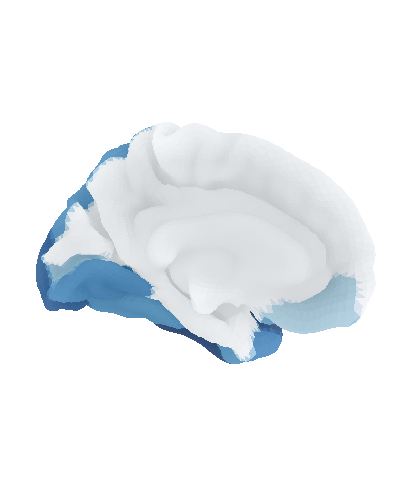
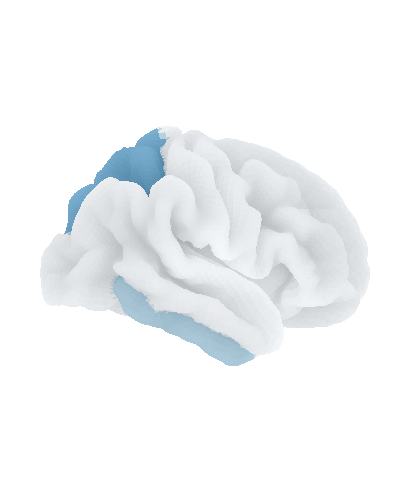
f

diff --git a/ENIGMA_Vis.py b/ENIGMA_Vis.py
@@ -20,11 +20,9 @@ fsaverage = datasets.fetch_surf_fsaverage('fsaverage5')
 
 # ── Render 4 views to temp PNGs via nilearn ──────────────────────────────────
 def render_views(lh, rh, cmap, vmin, vmax, prefix):
-    """Save lat-L / med-L / med-R / lat-R PNGs; return their paths."""
+    """Save lateral-L and lateral-R PNGs; return their paths."""
     config = [
         ('pial_left',  'sulc_left',  lh, 'left',  'lateral'),
-        ('pial_left',  'sulc_left',  lh, 'left',  'medial'),
-        ('pial_right', 'sulc_right', rh, 'right', 'medial'),
         ('pial_right', 'sulc_right', rh, 'right', 'lateral'),
     ]
     paths = []
@@ -106,60 +104,93 @@ row_configs = [
      'Left hippocampus (Lhippo)', 'subcortical'),
 ]
 
-fig = plt.figure(figsize=(20, 18), facecolor='white')
+fig = plt.figure(figsize=(22, 12), facecolor='white')
 
-# 4 brain rows + 1 col for colorbar; extra vertical space between the two seed pairs
-gs = GridSpec(4, 5, figure=fig,
-              width_ratios=[4, 4, 4, 4, 0.35],
-              height_ratios=[1, 1, 1, 1],
-              hspace=0.22, wspace=0.04,
-              left=0.01, right=0.98, top=0.96, bottom=0.02)
+# 2 rows (cortical / subcortical seed) × (FC left | FC right | SC left | SC right | colorbar pair)
+# Laid out as: [FC-LH | FC-RH | gap | SC-LH | SC-RH | cb-FC | cb-SC]
+gs = GridSpec(2, 7, figure=fig,
+              width_ratios=[5, 5, 0.3, 5, 5, 0.35, 0.35],
+              height_ratios=[1, 1],
+              hspace=0.30, wspace=0.05,
+              left=0.02, right=0.98, top=0.93, bottom=0.04)
 
-for row, paths, cmap, vmin, vmax, title, seed_name, seed_type in row_configs:
-    imgs = [mpimg.imread(p) for p in paths]
+# Row 0 = cortical seed (L_middletemporal), Row 1 = subcortical seed (Lhippo)
+# Within each row: FC-LH | FC-RH | [gap] | SC-LH | SC-RH | cb-FC | cb-SC
+seed_rows = [
+    (0, paths_fc1, paths_sc1, 0.2, 0.7, 2, 10,
+     'L_middletemporal', 'cortical',
+     'Functional Cortico-Cortical Connectivity',
+     'Structural Cortico-Cortical Connectivity'),
+    (1, paths_fc2, paths_sc2, 0.1, 0.3, 1, 10,
+     'Left Hippocampus (Lhippo)', 'subcortical',
+     'Functional Subcortico-Cortical Connectivity',
+     'Structural Subcortico-Cortical Connectivity'),
+]
 
-    for col, img in enumerate(imgs):
+for row, p_fc, p_sc, fc_min, fc_max, sc_min, sc_max, seed_name, seed_type, fc_title, sc_title in seed_rows:
+    imgs_fc = [mpimg.imread(p) for p in p_fc]   # [LH, RH]
+    imgs_sc = [mpimg.imread(p) for p in p_sc]   # [LH, RH]
+
+    # columns: 0=FC-LH, 1=FC-RH, 2=gap, 3=SC-LH, 4=SC-RH, 5=cb-FC, 6=cb-SC
+    panels = [
+        (0, imgs_fc[0], 'Left Hemisphere',  fc_title, True),
+        (1, imgs_fc[1], 'Right Hemisphere', '',        False),
+        (3, imgs_sc[0], 'Left Hemisphere',  sc_title,  True),
+        (4, imgs_sc[1], 'Right Hemisphere', '',        False),
+    ]
+
+    for col, img, hemi_label, subtitle, show_seed in panels:
         ax = fig.add_subplot(gs[row, col])
         ax.imshow(img)
         ax.axis('off')
 
-        # Row title + seed label (left of the lateral-L view)
-        if col == 0:
+        ax.text(0.5, -0.03, hemi_label, transform=ax.transAxes,
+                ha='center', va='top', fontsize=9, color='#555', style='italic')
+
+        if subtitle:
             ax.set_title(
-                f'{title}\n'
-                f'$\\it{{Seed:}}$ {seed_name}',
-                fontsize=11, fontweight='bold',
-                loc='left', pad=5, color='#111',
+                f'{subtitle}\n' + r'$\it{Seed}$' + f': {seed_name}',
+                fontsize=10, fontweight='bold', loc='left', pad=5, color='#111',
             )
 
-        # "seed" circle + arrow on the left-lateral view
-        if col == 0:
+        if show_seed:
             h, w = img.shape[:2]
-            # cortical seed: mid-temporal region (~30% from left, 58% from top)
-            # subcortical seed: hippocampus sits slightly lower / more medial
-            if seed_type == 'cortical':
-                sx, sy = int(w * 0.30), int(h * 0.58)
-            else:
-                sx, sy = int(w * 0.38), int(h * 0.63)
-            ax.plot(sx, sy, 'o', mfc='none', mec='black', ms=7, mew=1.5, zorder=5)
+            sx = int(w * 0.30) if seed_type == 'cortical' else int(w * 0.38)
+            sy = int(h * 0.58) if seed_type == 'cortical' else int(h * 0.63)
+            ax.plot(sx, sy, 'o', mfc='none', mec='black', ms=8, mew=1.5, zorder=5)
             ax.annotate('seed', xy=(sx, sy),
-                        xytext=(sx - int(w * 0.12), sy + int(h * 0.14)),
+                        xytext=(sx - int(w * 0.13), sy + int(h * 0.15)),
                         fontsize=9, color='black',
                         arrowprops=dict(arrowstyle='-', color='black', lw=1.0))
 
-    # Colorbar
-    ax_cb = fig.add_subplot(gs[row, 4])
-    sm = mplcm.ScalarMappable(cmap=cmap, norm=Normalize(vmin=vmin, vmax=vmax))
-    sm.set_array([])
-    cb = plt.colorbar(sm, cax=ax_cb)
-    cb.ax.tick_params(labelsize=9)
-    cb.set_ticks([vmin, vmax])
+    # FC colorbar
+    ax_cb_fc = fig.add_subplot(gs[row, 5])
+    sm_fc = mplcm.ScalarMappable(cmap='Reds', norm=Normalize(vmin=fc_min, vmax=fc_max))
+    sm_fc.set_array([])
+    cb_fc = plt.colorbar(sm_fc, cax=ax_cb_fc)
+    cb_fc.set_ticks([fc_min, fc_max])
+    cb_fc.ax.tick_params(labelsize=8)
 
-# Horizontal divider between the two seed pairs (between rows 1 and 2)
+    # SC colorbar
+    ax_cb_sc = fig.add_subplot(gs[row, 6])
+    sm_sc = mplcm.ScalarMappable(cmap='Blues', norm=Normalize(vmin=sc_min, vmax=sc_max))
+    sm_sc.set_array([])
+    cb_sc = plt.colorbar(sm_sc, cax=ax_cb_sc)
+    cb_sc.set_ticks([sc_min, sc_max])
+    cb_sc.ax.tick_params(labelsize=8)
+
+# Vertical divider between FC and SC panels
 fig.add_artist(plt.Line2D(
-    [0.01, 0.97], [0.502, 0.502],       # figure-fraction coordinates
+    [0.485, 0.485], [0.04, 0.96],
     transform=fig.transFigure,
-    color='#aaa', linewidth=1.2, linestyle='--'
+    color='#bbb', linewidth=1.2, linestyle='--'
+))
+
+# Horizontal divider between cortical and subcortical seed rows
+fig.add_artist(plt.Line2D(
+    [0.02, 0.98], [0.50, 0.50],
+    transform=fig.transFigure,
+    color='#bbb', linewidth=1.2, linestyle='--'
 ))
 
 plt.savefig('./figs/enigma_seed_surface.png', dpi=180,
